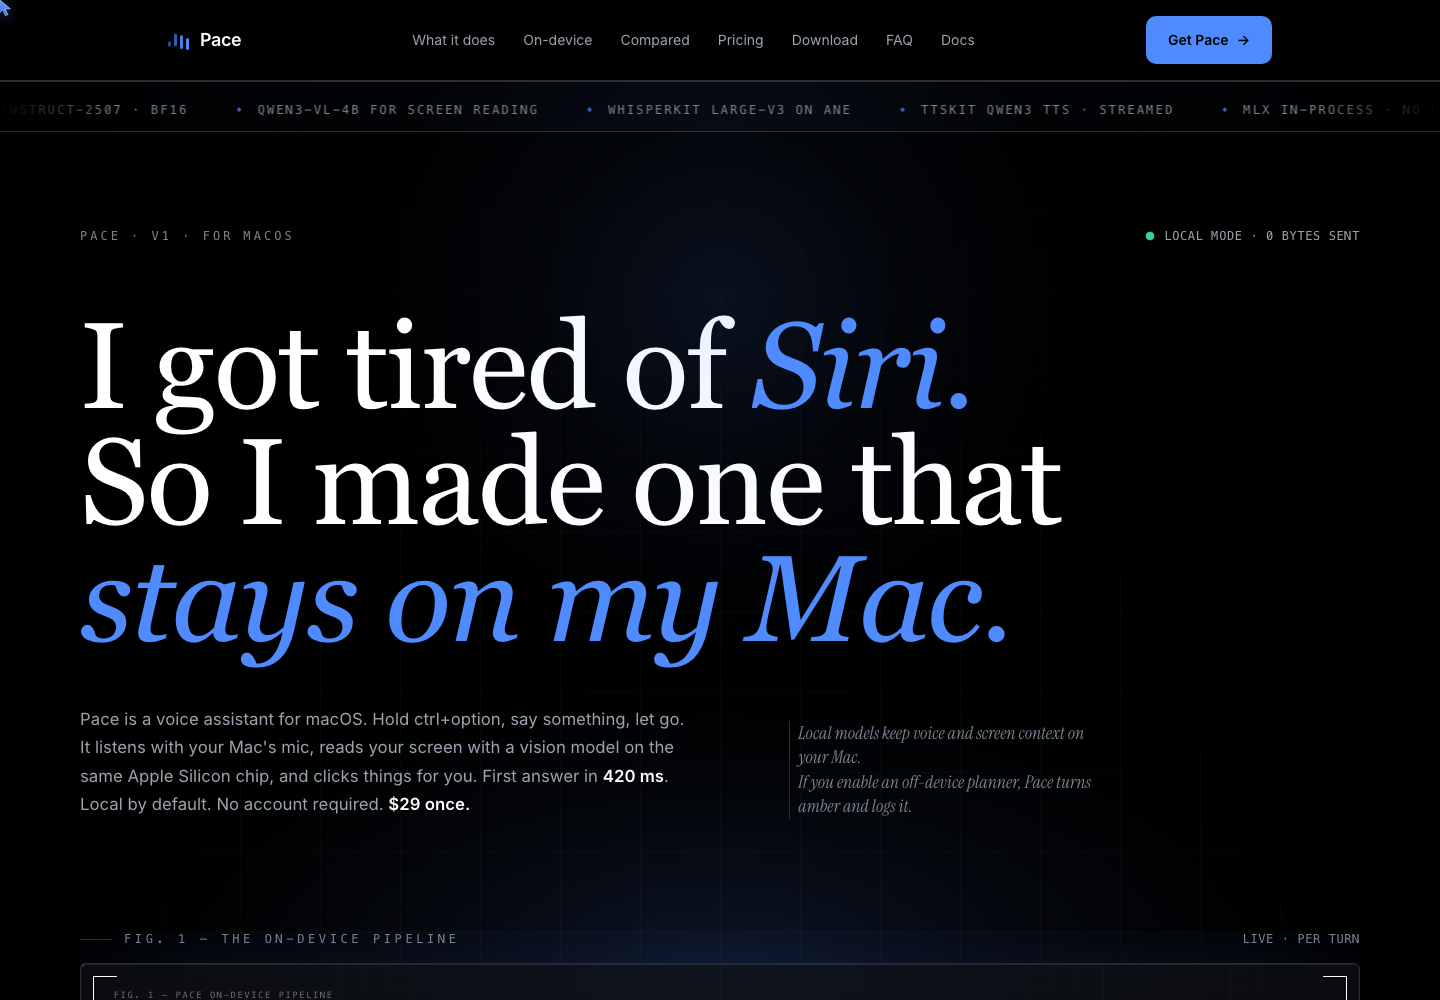
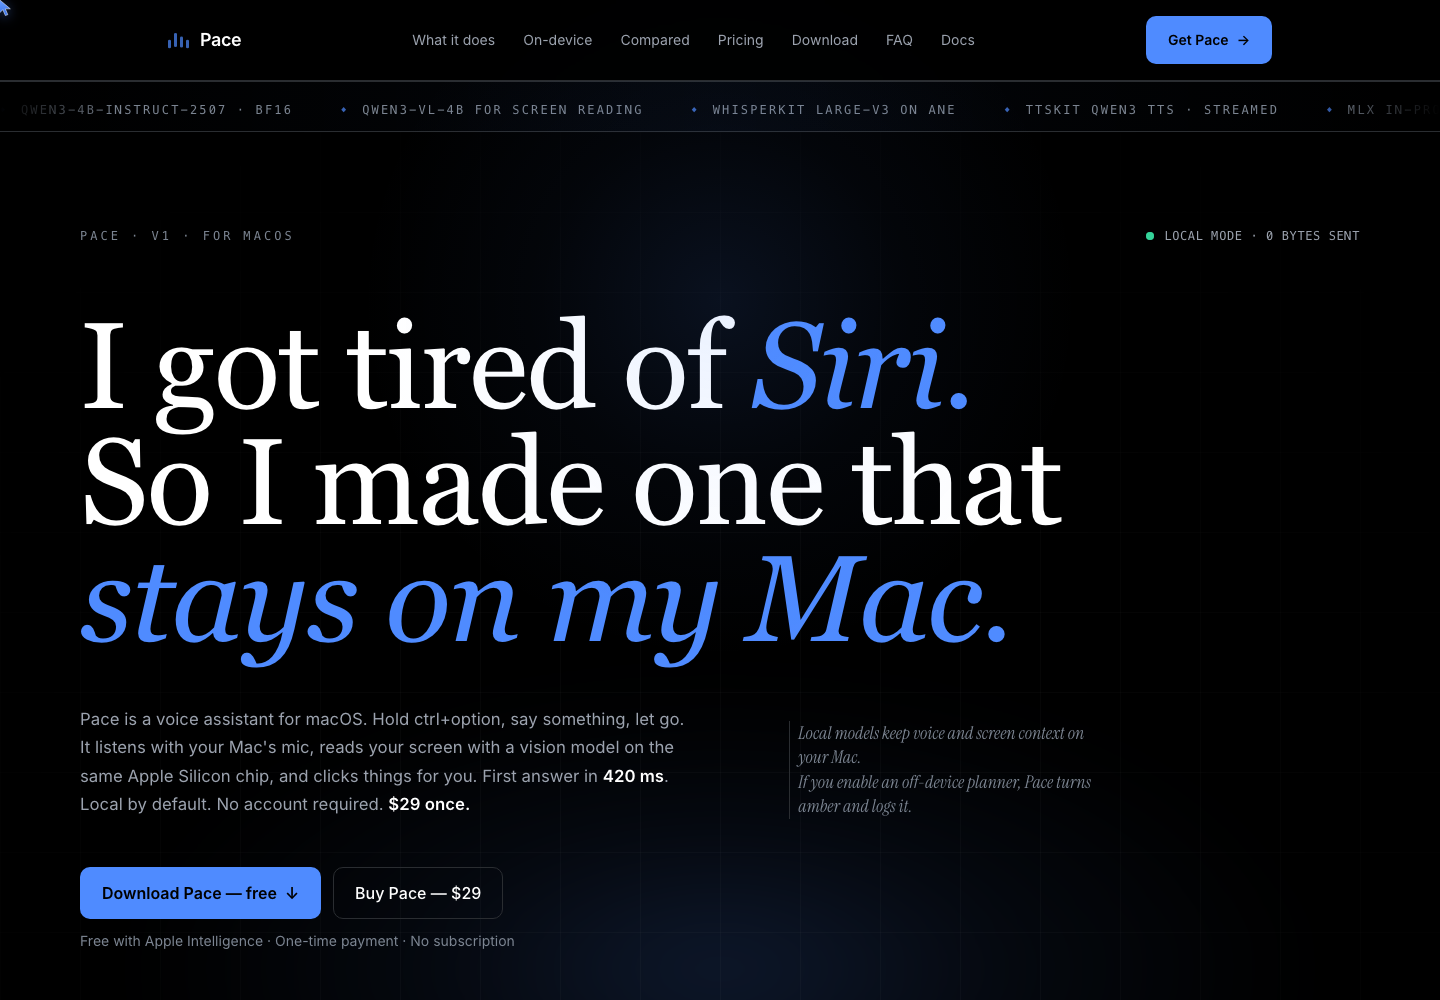
Keep homepage actions visible (#126)

diff --git a/website/src/styles/global.css b/website/src/styles/global.css
@@ -365,6 +365,13 @@ h3 {
   color: var(--color-accent);
 }
 
+@media (max-width: 480px) {
+  .pace-headline-display {
+    font-size: clamp(2.65rem, 12vw, 3rem);
+    line-height: 0.98;
+  }
+}
+
 @media (prefers-reduced-motion: reduce) {
   .pace-demo-loop,
   .pace-stream-line,

diff --git a/PROJECT_STATUS.md b/PROJECT_STATUS.md
@@ -63,12 +63,11 @@ Menu bar capsule (PaceMenuBarOverlay) → floating panel + optional cursor overl
 
 ## Timeline
 
-- **2026-07-31:** Expanded the screen-aware Mac agent comparison from 13 to
-  16 typed records, adding Cyclop One, Peepbox, and BoBe with sourced runtime
-  posture, strengths, and honest Pace differences. The hub now answers the
-  category intent directly, exposes selection criteria, and regenerates its
-  dedicated HTML, sitemap, and Markdown routes from the same registry.
-
+- **2026-07-31:** Kept the website's download and purchase decisions beside the
+  homepage promise instead of below the long architecture proof. The narrow
+  hero now stacks its local-mode status, uses a contained display size, and
+  keeps both actions visible without horizontal overflow; reduced-motion
+  behavior and the existing visual language remain unchanged.
 - **2026-07-31:** Completed the website's source-level SEO/GEO contract for all
   22 canonical public HTML surfaces. The sitemap, compact `/api/ai` catalog,
   and 22 Markdown alternates now derive from one route registry; comparison
